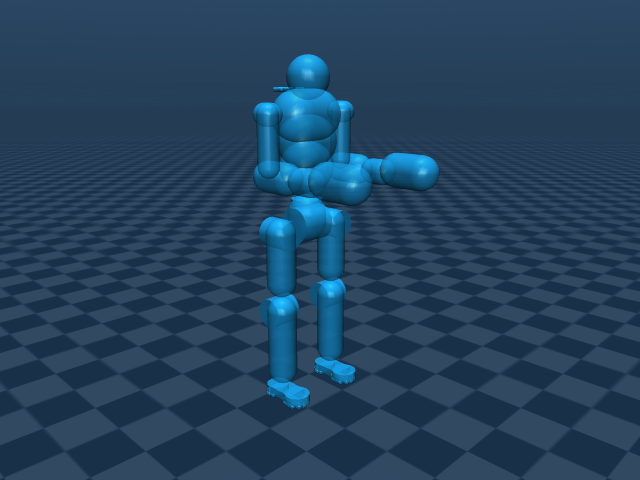
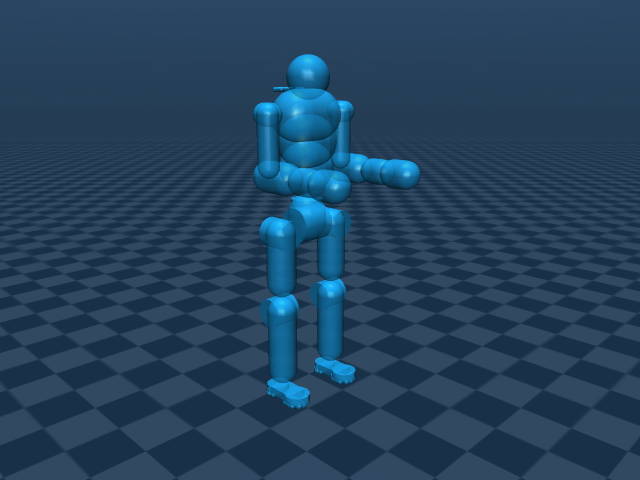
Use compact G1-style palm colliders for Astro

Changed region(s): [[0.4688, 0.3125, 0.6875, 0.4375]]

diff --git a/test/model_test.py b/test/model_test.py
@@ -290,11 +290,18 @@ class AstroP2ArmCollisionTests(unittest.TestCase):
                     distances.append(self._capsule_surface_distances(geom, new_data, points))
                 self.assertLessEqual(float(np.minimum(*distances).max()), 1e-9)
 
-    def test_round_hand_proxy_contains_native_hand_mesh(self):
+    def test_compact_palm_proxy_matches_g1_and_leaves_fingers_outside(self):
         model = mujoco.MjModel.from_xml_path(str(ROOT / "astro_p2/astro_p2_simplified.xml"))
         data = mujoco.MjData(model)
         mujoco.mj_forward(model, data)
+        source = ET.parse(ROOT / "unitree_g1/unitree_g1_29dof_box_feet.xml")
+        robot = ET.parse(ROOT / "astro_p2/astro_p2_simplified.xml")
         for side in ("left", "right"):
+            reference = source.find(f".//geom[@name='{side}_hand_collision']")
+            palm = robot.find(f".//geom[@name='{side}_wrist_hand_collision']")
+            self.assertEqual(float(palm.get("size")), float(reference.get("size")))
+            np.testing.assert_array_equal(np.fromstring(palm.get("fromto"), sep=" "),
+                                          np.fromstring(reference.get("fromto"), sep=" "))
             visual = model.geom(f"{side}_rubber_hand_visual")
             mesh = int(visual.dataid[0])
             start = model.mesh_vertadr[mesh]
@@ -302,10 +309,15 @@ class AstroP2ArmCollisionTests(unittest.TestCase):
             points = vertices @ data.geom_xmat[visual.id].reshape(3, 3).T + data.geom_xpos[visual.id]
             proxy = model.geom(f"{side}_wrist_hand_collision")
             distance = self._capsule_surface_distances(proxy, data, points)
-            self.assertLessEqual(float(distance.max()), 1e-7)
-            # Rounder than the previous radius-.03, half-length-.059 shaft.
-            self.assertGreater(proxy.size[0], 0.03)
-            self.assertLess(proxy.size[1], 0.059)
+            self.assertTrue(np.any(distance < 0))
+            self.assertTrue(np.any(distance > 0.01))
+            # Palm contact is modeled; extended fingertips deliberately are not.
+            body = model.body(f"{side}_wrist_yaw_link").id
+            local = np.array([[0.08, 0, 0.01], [0.21, 0, 0.01]])
+            probes = local @ data.xmat[body].reshape(3, 3).T + data.xpos[body]
+            distances = self._capsule_surface_distances(proxy, data, probes)
+            self.assertLess(distances[0], 0)
+            self.assertGreater(distances[1], 0)
 
     def test_arm_geometry_and_hybrid_contact_policy(self):
         robot = mujoco.MjModel.from_xml_path(str(ROOT / "astro_p2/astro_p2_simplified.xml"))

diff --git a/docs/astro-palm-collision-verification.md b/docs/astro-palm-collision-verification.md
@@ -1,0 +1,42 @@
+# Compact palm collider correction
+
+Baseline: `7a34149a15e8eb4fa5ccfce3e9147e686038e077`.
+Branch: `codex/astro-palm-colliders`.
+Scope: [accepted palm-only correction](design/astro-p2-simplified-collisions.md#accepted-palm-only-correction).
+
+The maintainer rejected the full-hand envelope as too large. Both Astro hand
+proxies now match the compact G1 box-feet hand reference: capsule radius
+**0.05 m**, centerline **`0.05 0 0` to `0.10 0 0`**, in the wrist-yaw frame.
+Total axial length is **0.15 m**, versus 0.22 m before. Extended fingers and
+thumb are deliberately outside the palm-contact approximation. Full-hand
+mesh containment is no longer a fitting or testing target.
+
+Two subagents updated model/provenance and rendered/probed the scene. The main
+session changed the goal-specific test, checked the diff and integrated docs.
+
+## Scope and checks
+
+- Robot XML comparison shows only the two hand geoms' `size` and `fromto`
+  attributes changed. All other geometry, physical properties and visuals match.
+- All **40 non-arm colliders**, forearm endpoint extensions, removed wrist-roll
+  proxies, independent wrist joints and the 50-collider inventory remain intact.
+- Scene XML is byte-identical to the baseline: **68 pairs** remain unchanged.
+  All **111 protected existing Astro runtime/asset/source files** retain hashes.
+- The palm probe is inside; an extended-finger probe is outside. Approximately
+  51–53% of mesh vertices are inside, recorded only as characterization, not a
+  completeness target. Native hand meshes and inertias were not changed.
+- Reference plus fourteen wrist-bound/combined-pose probes forwarded and
+  stepped without non-finite state or warnings. Positive palm-floor and
+  palm-torso contacts work; lower-body ground contacts match the original in
+  three leg poses. Folded elbows at 1.2 rad still produce selected palm/hip
+  contact; this capsule is a coarse contact approximation, not calibration.
+- `UV_CACHE_DIR=/tmp/menagerie-x-uv-cache make all` passed **17 test methods**,
+  including standalone family loading. The corrected test now checks G1-size
+  equivalence, palm inclusion and intentional fingertip exclusion.
+- Both native 640×480 collider previews were refreshed and inspected. The
+  [overlay](../astro_p2/astro_p2_wrist_hand_colliders.png) shows fingers extending
+  beyond the smaller cap. Render transparency is temporary; saved visual
+  materials and meshes are unchanged. No simulation stepping is used for images.
+- `git diff --check` passed. No dependencies or packaging paths changed.
+
+MJX runtime, controllers, Workbench and URDF compatibility remain deferred.

diff --git a/astro_p2/README.md b/astro_p2/README.md
@@ -114,26 +114,20 @@ group 3, including the unchanged detailed feet and torso.
 Viewer group visibility does not alter collision selection.
 
 Some merged arm capsules are broader than the source shaft segments to retain
-the old joint-housing collision envelope. The hand is now fitted to Astro's
-native visual mesh with a rounder, thicker capsule inspired by G1's hand
-envelope. Its centerline is shorter than the earlier thin proxy, but its overall
-extent grows to cover fingers and thumb that the earlier proxy missed.
-These are collision approximations rather than new hand geometry or calibration.
+the old joint-housing collision envelope. The hand uses a **compact palm-only
+capsule**, matching the G1 box-feet hand reference: radius **0.05 m**, with a
+centerline from `(0.05, 0, 0)` to `(0.10, 0, 0)` in the wrist-yaw frame.
+Its total length is 0.15 m, down from the rejected 0.22 m full-hand envelope.
+**Extended fingers and thumb intentionally remain outside**; whole-hand mesh
+containment is not the goal. Astro's native hand mesh and physical properties
+are unchanged. This is a palm-contact approximation, not hardware calibration.
 
-The current hand capsule has radius 0.06 m and a 0.10 m centerline, with small
-mirrored lateral offsets fitted to Astro's native hand. All native hand mesh
-vertices are inside it; the previous thin proxy covered only about 54–55%.
 The forearm endpoint extends by 15 mm so the removed wrist-roll shell stays
 covered by the forearm/pitch union, including at wrist bending limits.
 
 <p float="left">
-  <img src="astro_p2_wrist_hand_colliders.png" alt="Astro wrist and rounded hand collider overlaid on native meshes" width="500">
+  <img src="astro_p2_wrist_hand_colliders.png" alt="Compact Astro palm collider with fingers outside the envelope" width="500">
 </p>
-
-The larger hand envelope can contact the body earlier in folded-arm poses.
-For example, elbows at 1.2 radians produce selected hand/hip contacts that the
-previous thin proxy missed. This is a consequence of the revised envelope;
-there is no controller or hardware-contact calibration implied.
 
 The XML uses the G1 MJX **approach**, but native MuJoCo is the verification
 target. MJX/JAX/Warp execution and performance remain deferred.

diff --git a/docs/design/astro-p2-simplified-collisions.md b/docs/design/astro-p2-simplified-collisions.md
@@ -62,6 +62,24 @@ closer to the rounded G1 hand collider. Current implementation scope:
 
 Revision branch: `codex/astro-wrist-hand-refinement`, baseline `10fcf7e`.
 
+## Accepted palm-only correction
+
+The maintainer rejected the full-hand envelope as too large: matching the G1
+example and covering only the palm is sufficient. This supersedes the preceding
+full-mesh containment goal:
+
+- Use the G1 box-feet hand capsule's compact geometry in Astro's wrist-yaw
+  frame: radius 0.05 m, centerline `(0.05, 0, 0)` to `(0.10, 0, 0)`.
+- Do not enlarge the collider to include extended fingers or thumb. Those
+  regions intentionally remain outside this palm-contact approximation.
+- Change only the two hand geoms and their documentation/provenance/previews.
+  Keep the wrist redundancy cleanup, all other arm/body shapes and all 68
+  contact pairs unchanged. No mesh, physical property or MJX runtime changes.
+- Replace the whole-hand coverage test with palm containment and fingertip
+  exclusion checks. Inspect a native overlay to confirm the smaller shape.
+
+Revision branch: `codex/astro-palm-colliders`, baseline `7a34149`.
+
 ## Original scope and ownership (superseded where noted above)
 
 - Add `astro_p2/astro_p2_simplified.xml` and `scene_simplified.xml` as a third

diff --git a/CONTEXT.md b/CONTEXT.md
@@ -17,7 +17,8 @@ The revised Astro alternative preserves every original non-arm collider and
 its contact policy. Only arms/hands are optimized and use explicit scene pairs;
 Astro's unactuated dynamics, source frames and existing variants are retained.
 The current wrist refinement removes redundant wrist-roll proxies and uses
-rounder native-hand-fitted capsules; 40 body plus 10 arm colliders remain.
+compact G1-style palm-only capsules, with extended digits intentionally outside;
+40 body plus 10 arm colliders remain.
 There is no regeneration step. `make all` is the native acceptance gate.
 Workbench, URDF compatibility, and MJX remain deferred. See
 [UPSTREAM.md](UPSTREAM.md) for preservation and ownership details.

diff --git a/docs/astro-wrist-hand-verification.md b/docs/astro-wrist-hand-verification.md
@@ -1,5 +1,10 @@
 # Astro wrist redundancy and rounded hand refinement
 
+Historical receipt: the full-hand envelope below was rejected as too large.
+The current accepted collider is palm-only, with fingers/thumb intentionally
+outside; see [the palm correction](design/astro-p2-simplified-collisions.md#accepted-palm-only-correction).
+Current checks are recorded in [the compact palm receipt](astro-palm-collision-verification.md).
+
 Implementation: `4716da7`, branch `codex/astro-wrist-hand-refinement`.
 Baseline: `10fcf7edccd61611679601274064f034887baca6`.
 Scope: [accepted wrist/hand refinement](design/astro-p2-simplified-collisions.md#accepted-wrist-and-hand-refinement).

diff --git a/CHANGELOG.md b/CHANGELOG.md
@@ -2,6 +2,10 @@
 
 ## 2026-10-30
 
+- Shrink the alternative Astro hand collider to the compact G1 palm reference.
+  Leave extended fingers/thumb outside; retire the full-hand containment target.
+  Keep wrist cleanup, non-arm colliders and contact selection unchanged.
+
 - Refine the arm-optimized Astro wrists and hands: remove the redundant small
   wrist-roll proxies and fit rounder hand envelopes to the native Astro mesh,
   using G1's hand shape as a reference. Keep original non-arm colliders intact.

diff --git a/astro_p2/CHANGELOG.md b/astro_p2/CHANGELOG.md
@@ -2,6 +2,10 @@
 
 ## 2026-10-30
 
+- Replace the oversized hand envelope with the G1-style palm capsule: radius
+  0.05 m, centerline x=0.05–0.10 m. Fingers/thumb may extend outside. Keep all
+  other geometry, the wrist cleanup and 68 contact pairs unchanged.
+
 - Remove the two standalone wrist-roll collision proxies after checking
   neighboring coverage through wrist motion. Fit rounder hand capsules to
   Astro's own mesh using G1 as a shape reference; preserve wrist joints and
